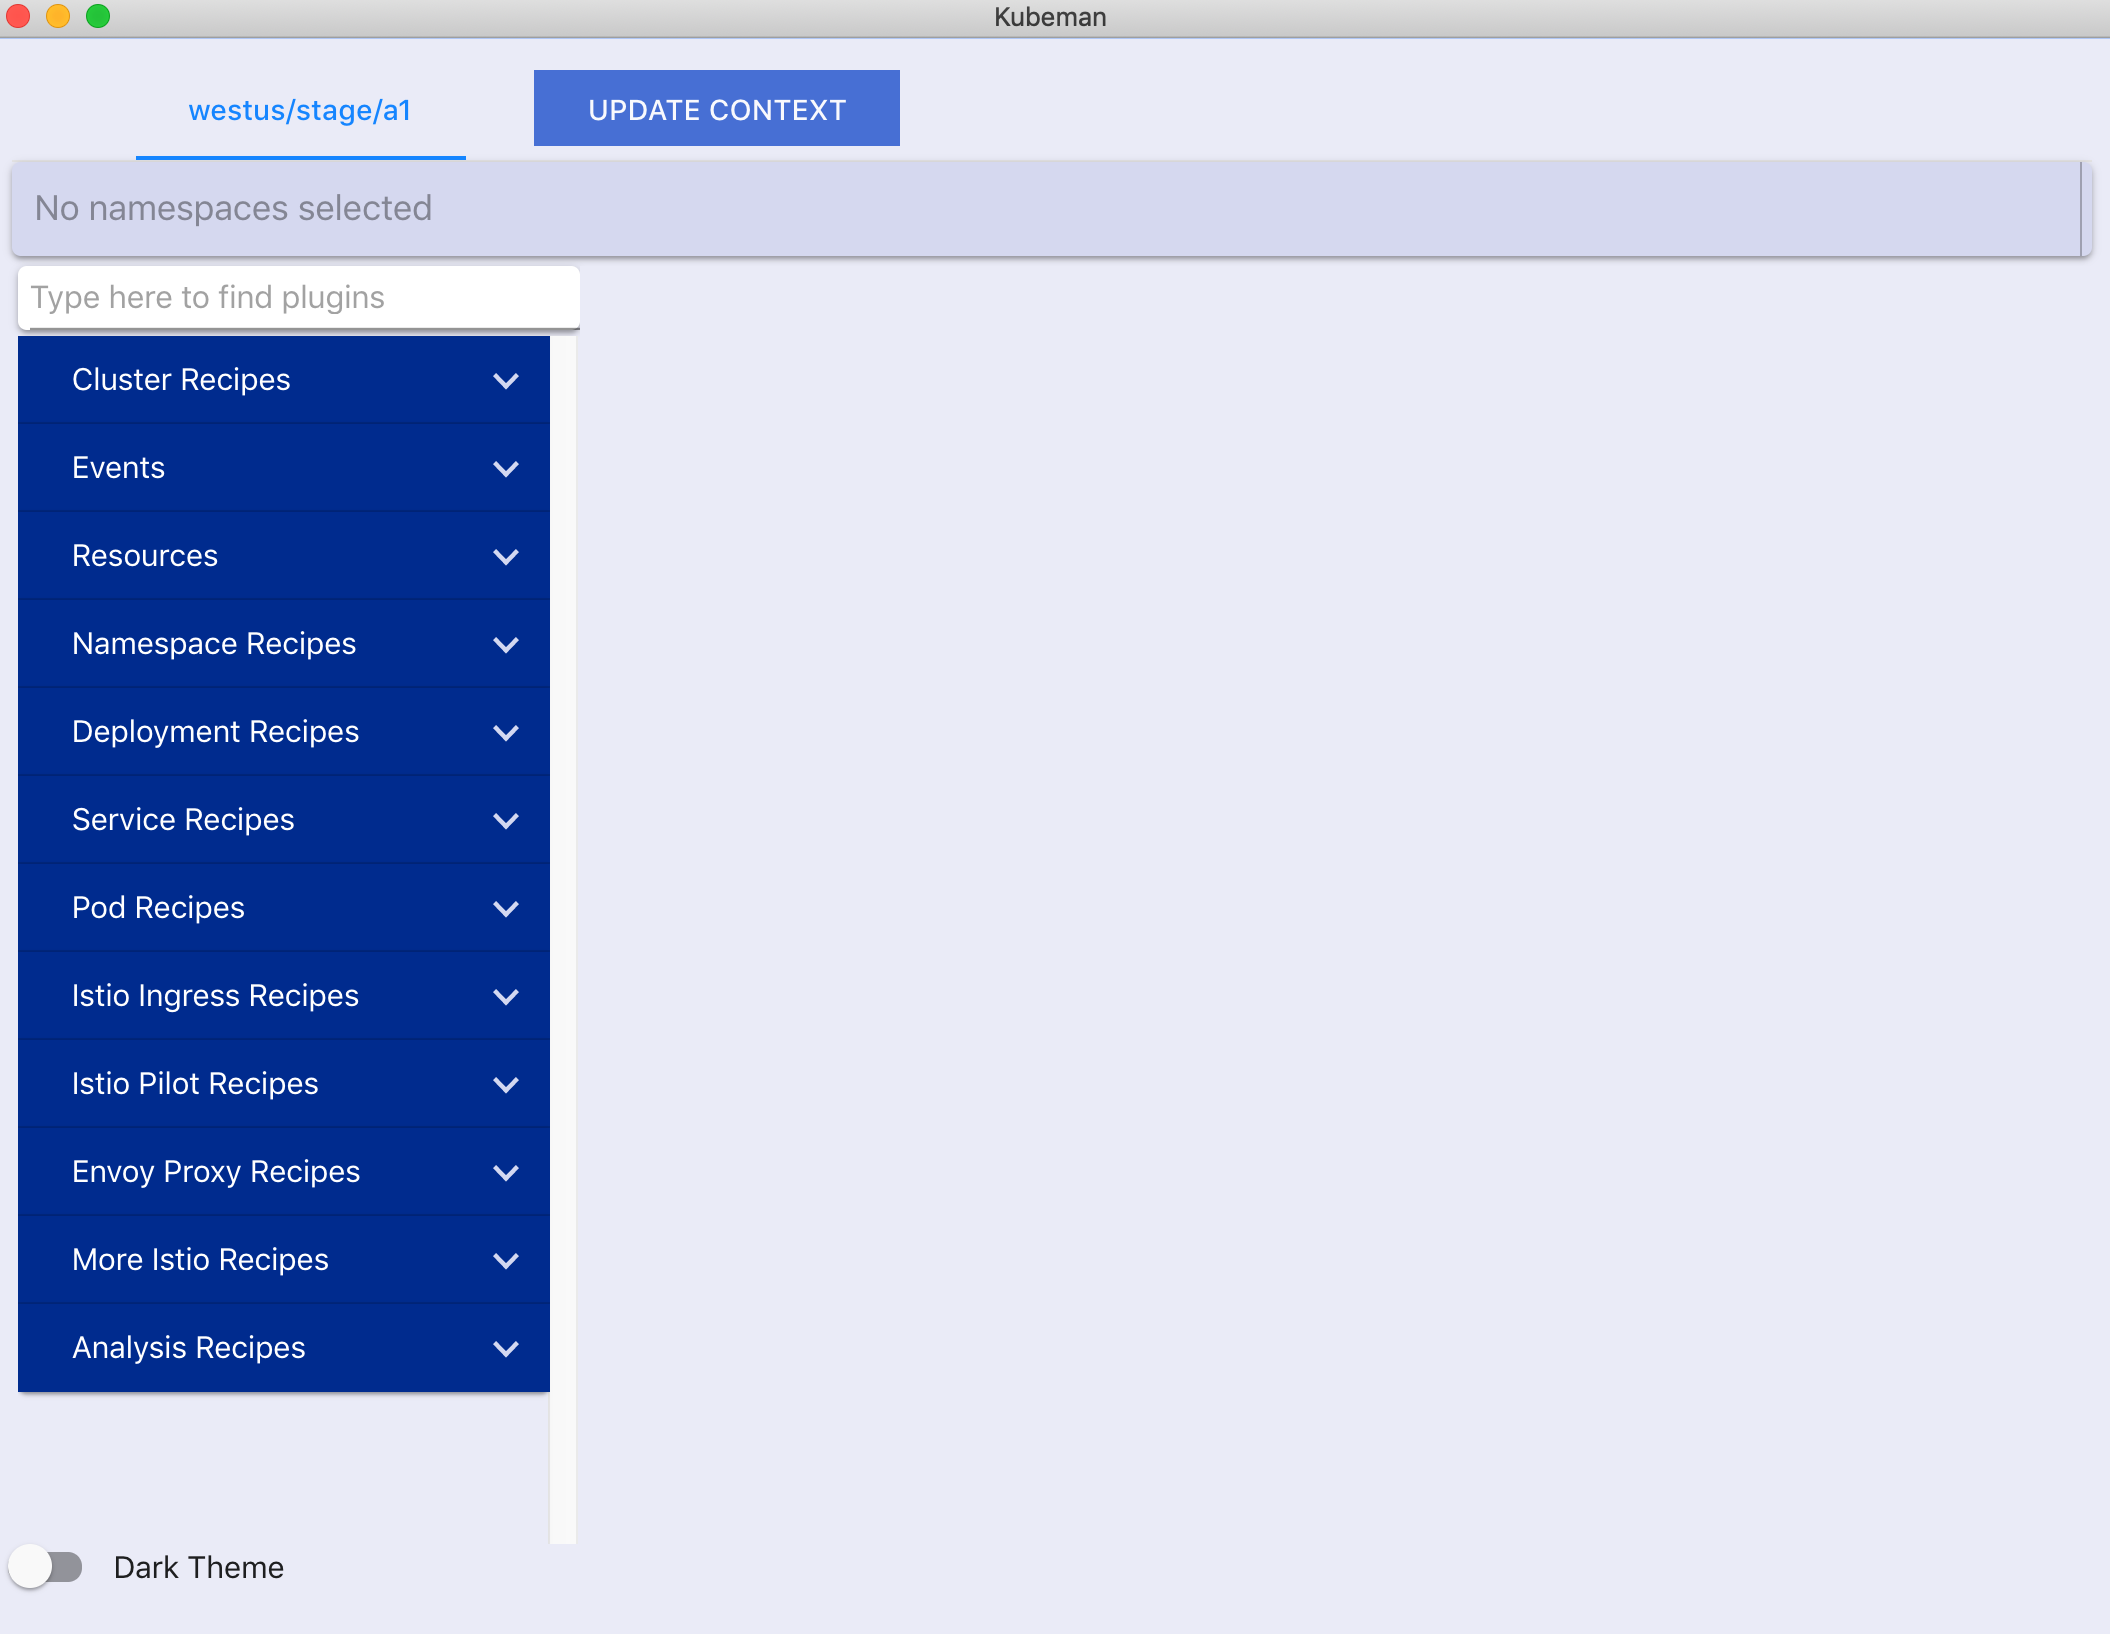
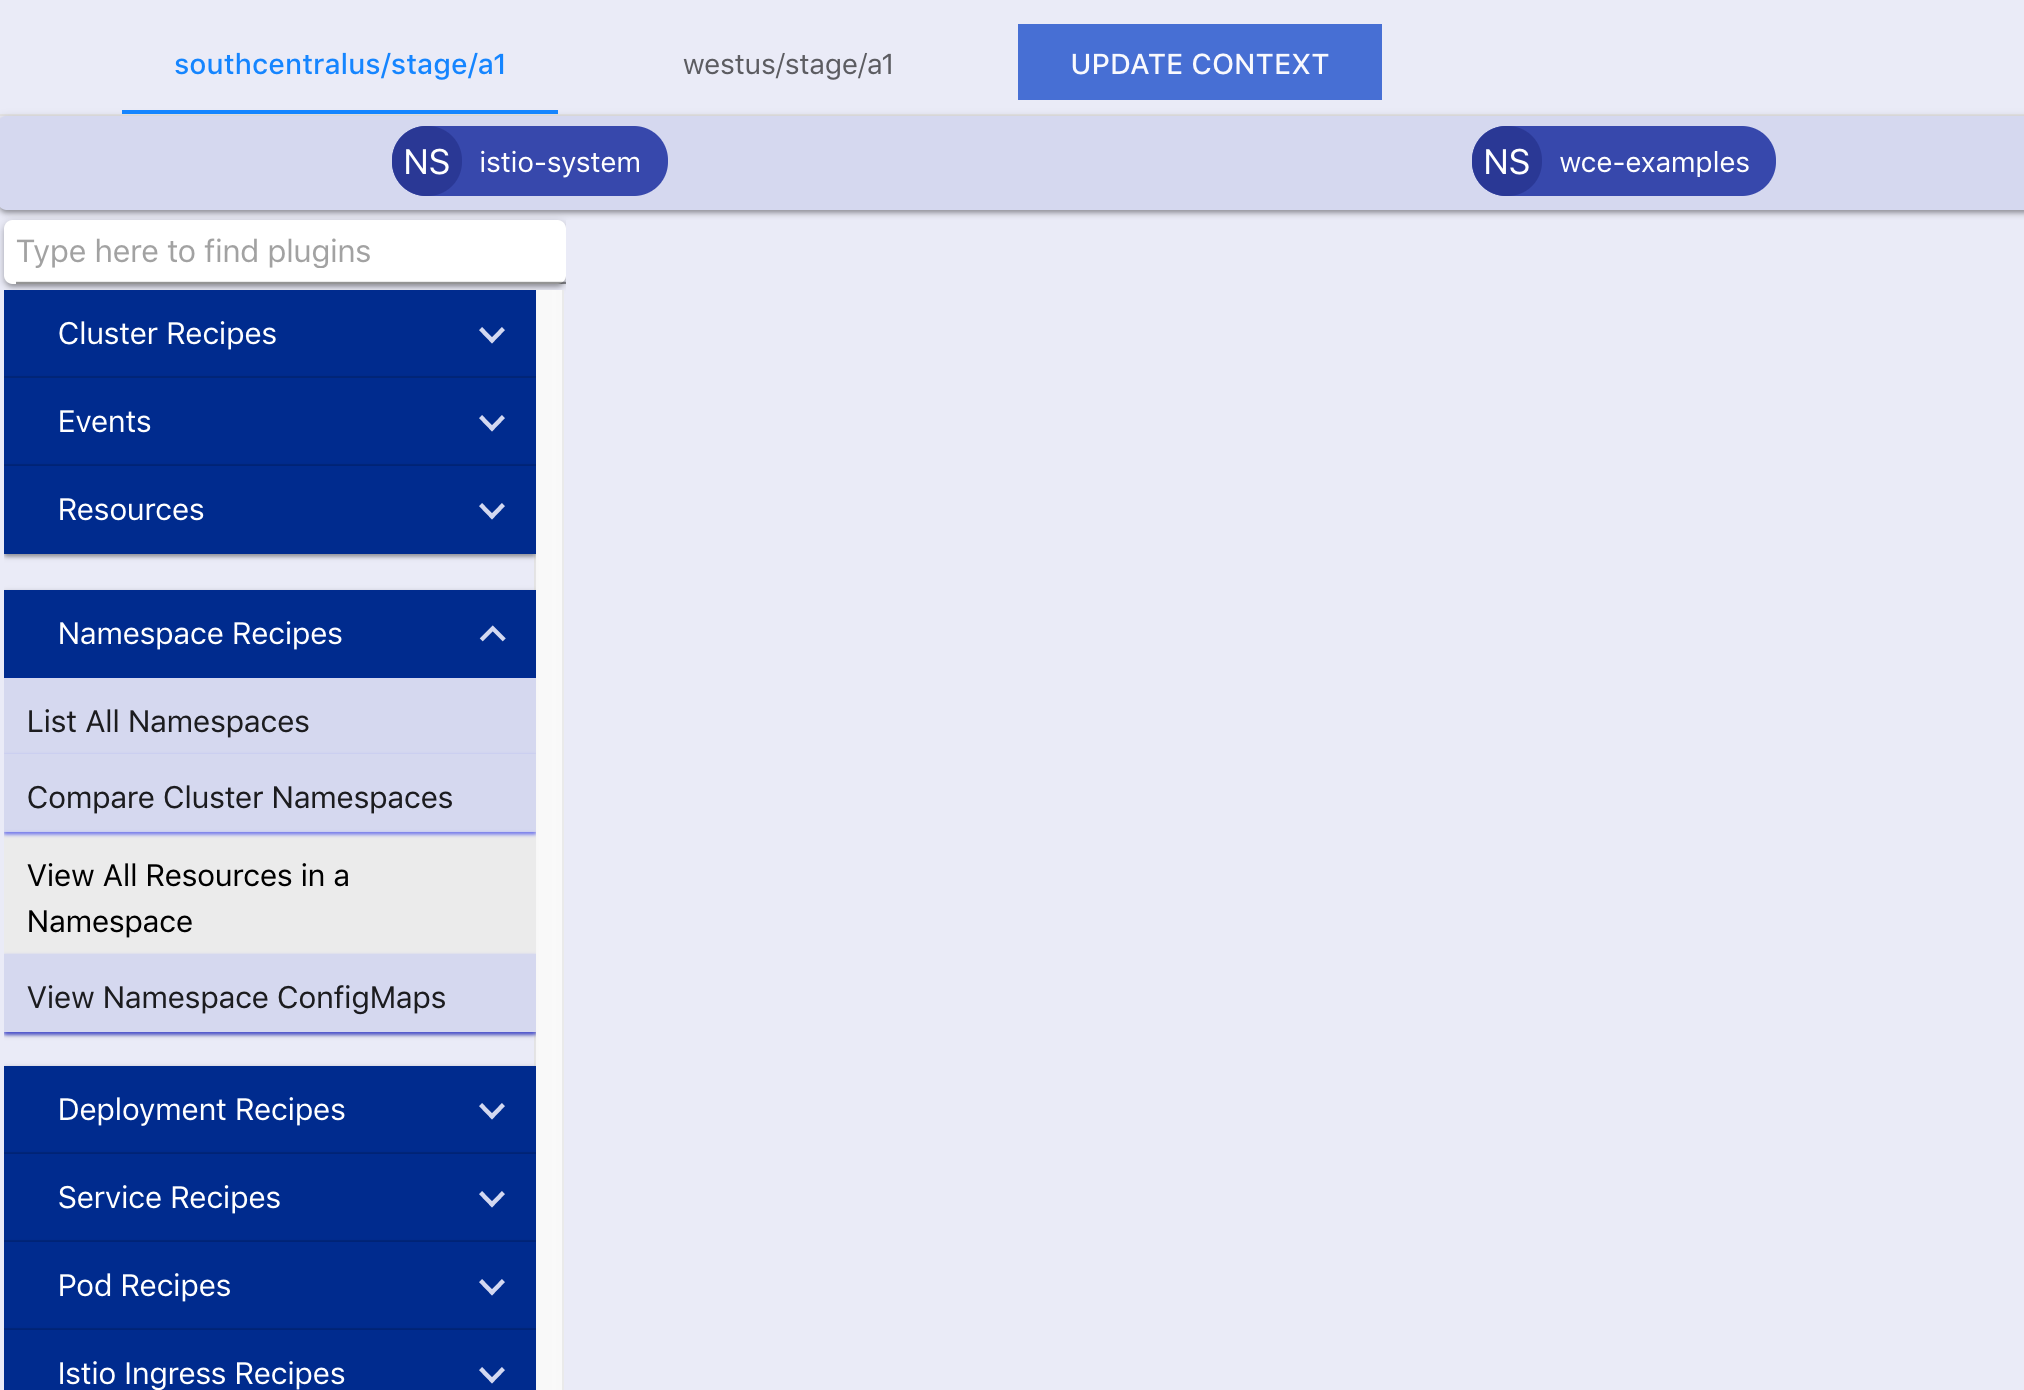
Added more screenshots to Readme

Changed region(s): [[0.0, 0.0, 1.0, 1.0], [0.9649, 0.1237, 1.0, 0.1547]]

diff --git a/src/output/outputManager.ts b/src/output/outputManager.ts
@@ -151,7 +151,7 @@ export class Cell {
     this.isHealthStatusField = isHealthStatusField || false
   }
 
-  match(filters: string[]) : string[] {
+  match(filters: string[]) : any[] {
     const appliedFilters: Set<string> = new Set
     this.isMatched = false
     this.filteredIndexes = []
@@ -178,7 +178,7 @@ export class Cell {
         } else {
           const isMatched = this.stringContent.includes(filter)
           isExcluded = isExcluded || negated && isMatched
-          if(negated && !isMatched || !negated && isMatched) {
+          if(!isExcluded && (negated && !isMatched || !negated && isMatched)) {
             negated && appliedFilters.add("!")
             appliedFilters.add(filter)
             this.isMatched = true
@@ -186,7 +186,7 @@ export class Cell {
         }
       }
     })
-    return isExcluded ? [] : Array.from(appliedFilters)
+    return isExcluded ? [true, []] : [false, Array.from(appliedFilters)]
   }
 
   clearFilter() {
@@ -431,10 +431,14 @@ export class Row {
     this.appliedFilters = []
     this.isMatched = this.parent ? this.parent.isMatched : false
     this.matchedColumns.clear()
+    let isExcluded = false
     filterGroups.forEach(filters => {
-      this.cells.map(cell => cell.match(filters)).forEach(matchingFilters => 
-                      matchingFilters.forEach(filter => matchedFilters.add(filter)))
-      const rowMatched = matchedFilters.size === filters.length
+      this.cells.map(cell => cell.match(filters))
+        .forEach(matchResult => {
+          isExcluded = isExcluded || matchResult[0]
+          !isExcluded && matchResult[1].forEach(filter => matchedFilters.add(filter))
+        })
+      const rowMatched = !isExcluded && matchedFilters.size === filters.length
       if(rowMatched) {
         this.appliedFilters = this.appliedFilters.concat(filters).filter(filter => filter.length > 0)
         if(!this.isGroupOrSubgroupOrSection) {
@@ -445,6 +449,7 @@ export class Row {
         this.isMatched = true
       }
     })
+    isExcluded && (this.isMatched = false)
     return this.isGroupOrSubgroupOrSection ? true : this.isMatched
   }
 

diff --git a/src/actions/actions.tsx b/src/actions/actions.tsx
@@ -244,7 +244,7 @@ export class Actions extends React.Component<IProps, IState> {
         {Context.hasClusters &&
           <Paper  className={classes.filterContainer}>
             <Input fullWidth autoFocus
-                placeholder="Type here to find plugins" 
+                placeholder="Type here to find Recipes" 
                 value={this.filterText}
                 onChange={this.onFilterChange}
                 onKeyDown={this.onKeyDown}
@@ -254,7 +254,7 @@ export class Actions extends React.Component<IProps, IState> {
         }
         <div className={classes.root}>
           {filteredActions.length > 0 && 
-            this.renderExpansionPanel("Matching Actions", filteredActions, true)
+            this.renderExpansionPanel("Matching Recipes", filteredActions, true)
           }
           {actionGroupSpecs.map(actionGroupSpec => 
             actionShowNoShow.get(actionGroupSpec.context || ActionContextType.Other) &&

diff --git a/README.md b/README.md
@@ -19,20 +19,32 @@ Prior to Kubeman, there was no comprehensive tool available in the Kubernetes co
 4. Click on "Select Cluster" button to select up to 3 clusters. You can optionally select one or more namespaces from the cluster selection dialog to limit your session to those namespaces for certain recipes.
    ![Select Cluster](/static/kubeman-select-cluster.png)
    ![Select Namespace](/static/kubeman-select-ns.png)
-5. You'll see a menus panel on the left side of the application window. You can select a recipe to run from the menus panel, or search for recipes by typing some keywords in the search field above the menus panel.
+5. Your current selected context is shown in the top panel. This context defines the boundaries within which the recipes will operate. E.g. Many recipes that require namespace selection will not ask you to select namespaces anymore and instead use the selected namespaces from the context. Recipes that require pod selection will only show pods from the namespaces you selected in the context. When no namespaces are selected in the context, the recipes just work with clusters and will perform namespace, pods, etc selection on the fly from the entire cluster(s). Note that when working with clusters without pre-selected namespaces, some recipes's choice selection dialogs can take a while to load as they'll have to look at the entire cluster to find choices to present in the dialog.
+   ![Selected Context](/static/kubeman-selected-context.png)
+6. You'll see a menus panel on the left side of the application window. The recipes are grouped in menus based on focus areas. You can select a recipe to run from the menus panel by sliding open a menu group.
    ![Menus](/static/kubeman-menus.png)
-6. Some recipes may ask you to make further selections (e.g. select namespaces, services, pods, etc).
-   ![Recipe Choices Dialog](/static/kubeman-recipe-choices.png)   
-7. Once a recipe runs and produces output, you can use the search input field at the top of the output panel to search for some text in the recipe output.
+7. Given the large number of recipes, finding a recipe from the menus can be daunting. You can simply look for recipes by typing some keywords in the search field above the menus panel. The matching recipes will show up in a separate menu option named "Matching Recipes". Complex searches can be done here (see complex search details further below)
+   ![Recipe Search](/static/kubeman-recipe-search.png)   
+8. Some recipes may ask you to make further selections (e.g. select namespaces, services, pods, etc).
+   [Recipe Choices Dialog](/static/kubeman-recipe-choices.png)   
+9. The output panel that captures and shows outputs for all recipes provides some common behavior that can be used regardless of which recipe produced the output.
+   * Once a recipe runs and produces output, you can use the search input field at the top of the output panel to search for some text in the recipe output. Hitting "escape" key deletes the search text when focus is in the search text field. Complex searches can be done here (see complex search details further below)
    ![Output Search](/static/kubeman-output-search.png)   
-8. Some recipes allow you to enter commands/inputs, and they react on those inputs. E.g. "Find component by IP" recipe will wait till you input one or more IP addresses. In this case, the output search field plays dual role and also serves as a command input field for the recipe. To give input to a recipe, you type the input preceded by a "/". When a recipe supports command input, the text entered as "/<text>" is treated as input/command for the recipe instead of being used as search criteria.
+   * The output from each recipe is grouped into groups and subgroups. The topmost output row (rendered in dark blue) shows the heading of the output. Clicking on this header row compresses the entire output to only show groups and subgroups, essentially presenting a summary view of the entire output. Clicking on the header row again expands the entire output back to its normal detailed view.
+   ![Overview Mode](/static/kubeman-overview-mode.png)
+   * Similarly, clicking on a group row will collapse all its children rows to present a summary view of the group, showing its subgroups while hiding everything else. Clicking the group again opens it back to its normal detailed view. Same applies to the subgroup. Rows below subgroups (sections and individual data output rows) don't support the summary view.
+   * While in overview mode, individual subgroups can be clicked to open and close them. This allows you to go into overview mode to scroll through a large output, and then click to open and view individual items of interest.
+   ![Group Overview Mode](/static/kubeman-subgroup-view.png)
+10. Some recipes allow you to enter commands/inputs, and they react on those inputs. E.g. "Find component by IP" recipe will wait till you input one or more IP addresses. In this case, the output search field plays dual role and also serves as a command input field for the recipe. To give input to a recipe, you type the input preceded by a "/". When a recipe supports command input, the text entered as "/<text>" is treated as input/command for the recipe instead of being used as search criteria. Some recipes support multiple input values separated by ",".
    ![Recipe Input](/static/kubeman-recipe-input.png)   
-9.  Some recipes support re-execution. In such cases, once the recipe has been produced, you'll see a "ReRun" button at the bottom of the menus panel. Clicking that button will run the recipe again with previously selected choices/input. Such recipes can also be rerun by entering command "/r".
-10. Some recipes support clearing their output once the output has been produced. In such cases, you'll see a "Clear" button at the bottom of the menus panel. Clearing output can be also be done by sending a "/clear" or "/c" command to such recipes.
-11. You'll see a "Stop" button at the bottom of the menus panel for most recipes. While Kubeman's recipes framework provides support for stopping recipes while they're running, not all recipes may be stopped once triggered. It's a best-effort feature.
-12. Some recipes support automatic periodic executing. For such recipes, you'll see an "Auto Refresh" option at the bottom of the menus panel. If you select the "Auto Refresh" option, you can also specify a frequency for the auto refresh to happen. Recipes provide a default auto-refresh frequency value, and the auto refresh frequency cannot be set to a value lower than 5 seconds.
+11. Some recipes support re-execution. In such cases, once the recipe has been produced, you'll see a "ReRun" button at the bottom of the menus panel. Clicking that button will run the recipe again with previously selected choices/input. Such recipes can also be rerun by entering command "/r".
+12. Some recipes support clearing their output once the output has been produced. In such cases, you'll see a "Clear" button at the bottom of the menus panel. Clearing output can be also be done by sending a "/clear" or "/c" command to such recipes.
+13. You'll see a "Stop" button at the bottom of the menus panel for most recipes. While Kubeman's recipes framework provides support for stopping recipes while they're running, not all recipes may be stopped once triggered. It's a best-effort feature.
+14. Some recipes support automatic periodic execution. For such recipes, you'll see an "Auto Refresh" option at the bottom of the menus panel. If you select the "Auto Refresh" option, you can also specify a frequency for the auto refresh to happen. Recipes provide a default auto-refresh frequency value, and the auto refresh frequency cannot be set to a value lower than 5 seconds.
    ![Recipe Auto Refresh](/static/kubeman-autorefresh.png)
-13. Kubeman supports "dark theme". You can switch to dark theme by using the selector at the left-bottom of the application window.
+13. Any place where you can search in Kubeman allows advanced search using operators "or" and "!". By default all words (space separated) are used in conjunction ("and"). Operator "or" allows for disjunction query (A or B). Operator "!" can be used for negation, where it'll exclude all results that have keywords that follow the ! operator (e.g. "A B ! C D" will find results containing A and B, but will exclude those results that have C and D). Complex queries can be formed using these two operators (e.g. "A or B ! C" will find all results that have either "A", or have "B without C")
+   ![Complex Search](/static/kubeman-complex-search.png)
+15. Kubeman supports "dark theme". You can switch to dark theme by using the selector at the left-bottom of the application window.
 
 
 ## Recipes Overview
@@ -44,6 +56,7 @@ These recipes either offer a cluster-wide overview or perform some analysis on t
 - Clusters Overview, 
 - Get Nodes Details
 - Find Component By IP
+   ![Find Component By IP](/static/kubeman-recipe-input.png)   
 
 #### Events
 These recipes let you view events at various levels.
